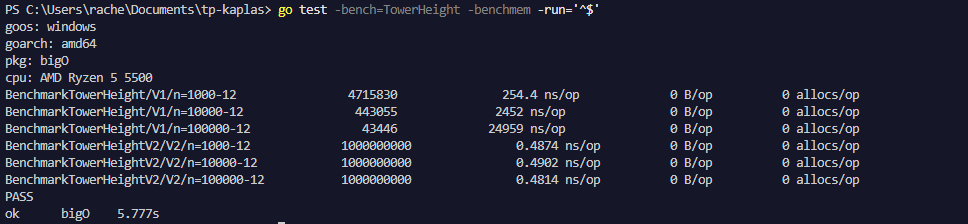
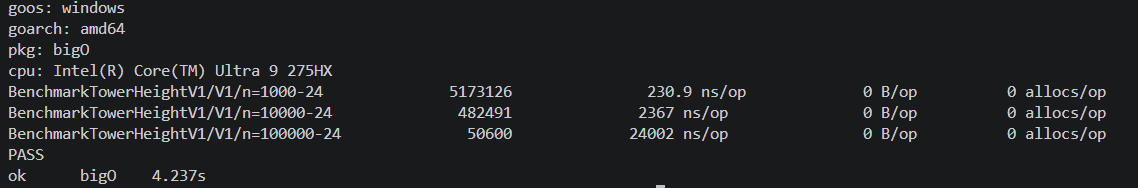
fix : tower height correction  & Readme

diff --git a/p3_tower_height.go b/p3_tower_height.go
@@ -3,7 +3,7 @@ package main
 func TowerHeightV1(n int) int {
 	var result int 
 	
-	for i := 0; i < n; i++ {
+	for i := 1; i < n; i++ {
 		result += i 
 	}
 	return result

diff --git a/readme.md b/readme.md
@@ -56,10 +56,10 @@ Voici le resultat du Benchamrk V1<br>
 voici le résultat du benchmark V2<br>
 -> ![alt text](image-2.png)<br>
 
- - Pour la version V1 O(n), on constate que le temps d'excution augmente  augmente de manière proportionnelle à la valeur de "n", <br>
-cela passe d'environ 254.4 ns/op pour 1000 éléments à plus de 24959 ns/op pour 100 000 éléments  <br>
+ - Pour la version V1 O(n), on constate que le temps d'excution augmente de manière proportionnelle à la valeur de "n", <br>
+cela passe d'environ 230.9 ns/op pour 1000 éléments à plus de 24002 ns/op pour 100 000 éléments  <br>
 
-- pour le version V2 O(1), on constate que le temps d'excution reste constant de 0.5138 ns/op peu importe que n soit petit ou grand   <br>
+- pour le version V2 O(1), on constate que le temps d'excution reste constant d'environ 0.1240 ns/op peu importe que "n" soit petit ou grand <br>
 
 **Commande pour lancer le bench :** _go test -bench=TowerHeightV1 -benchmem -run='^$'_ <br>
 **Commande pour lancer le bench V1 :** _go test -bench=TowerHeightV2 -benchmem -run='^$'_ <br>
